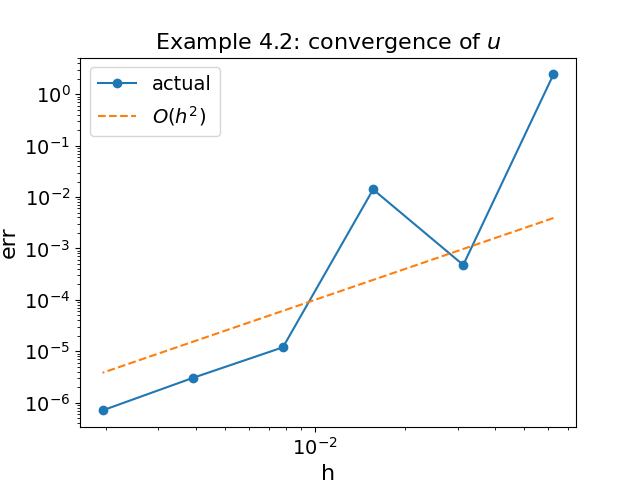
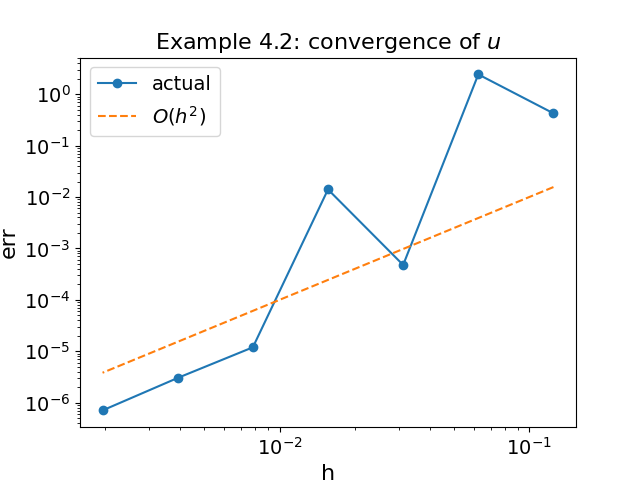
updated figures

diff --git a/examples/poisson/convergence.py b/examples/poisson/convergence.py
@@ -29,7 +29,7 @@ G = 3
 x0 = 0.02 * np.sqrt(5)
 y0 = 0.02 * np.sqrt(3)
 eps_safe = 1e-30
-n_range = 2 ** np.arange(4, 10, dtype=int)
+n_range = 2 ** np.arange(3, 10, dtype=int)
 errors_u = np.zeros(n_range.size)
 errors_du = np.zeros(n_range.size)
 for i, n in enumerate(n_range):
